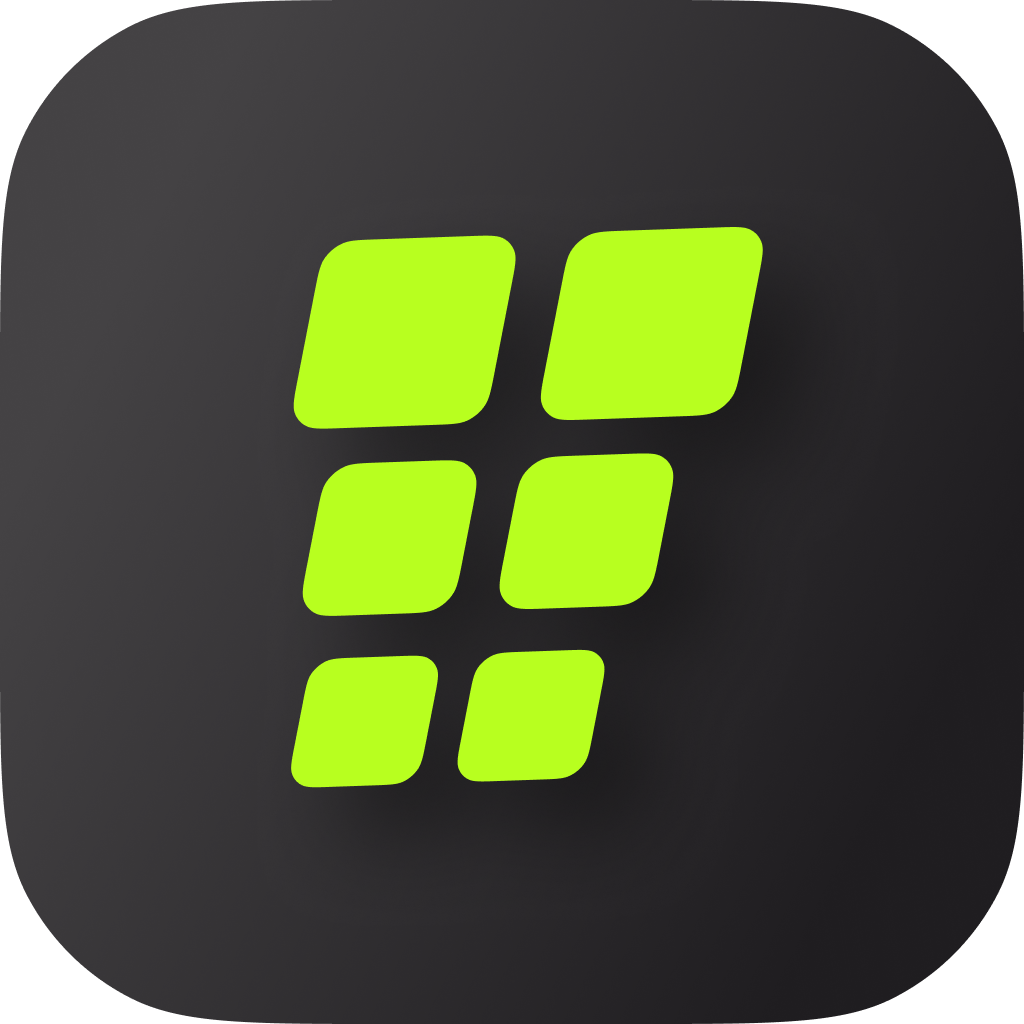
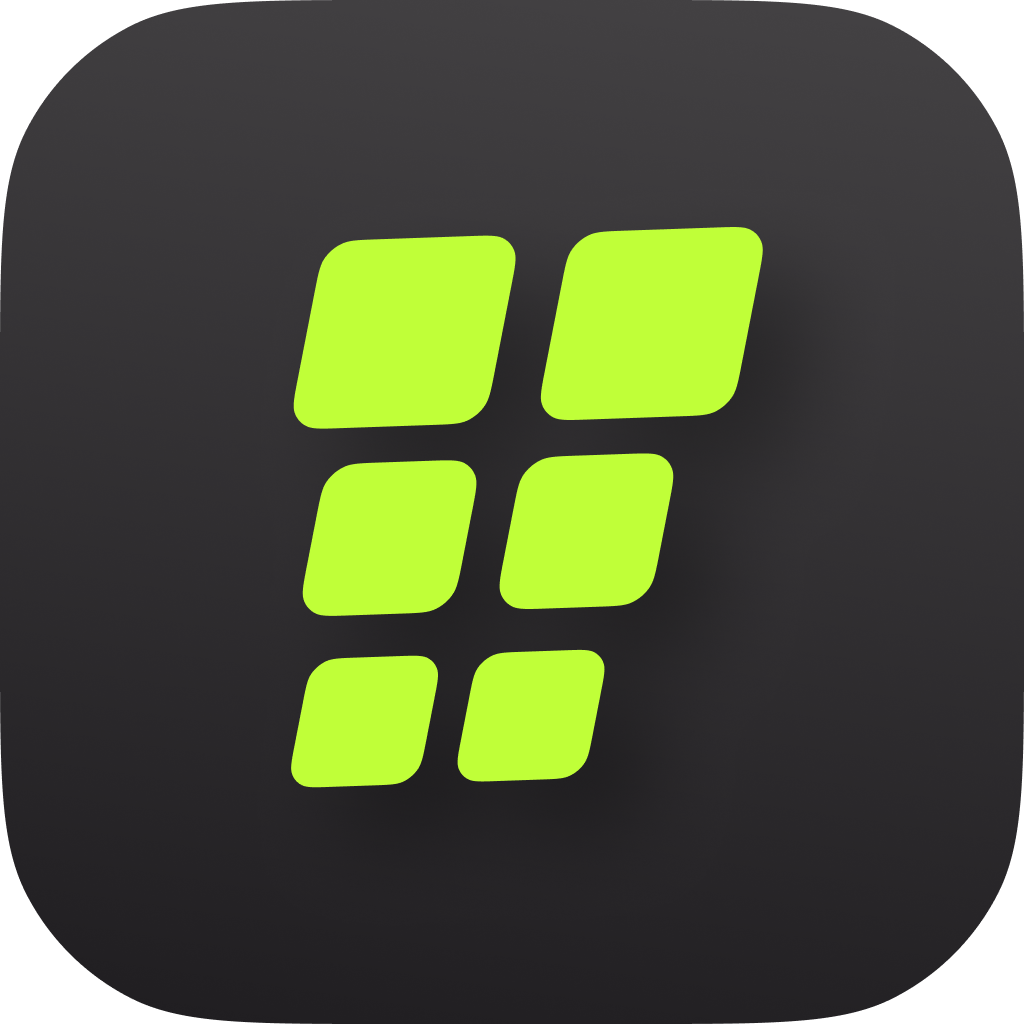
update color

diff --git a/components/brand/sign.tsx b/components/brand/sign.tsx
@@ -6,27 +6,27 @@ export default function Sign({ ...props }: SvgProps) {
     <Svg width="24" height="24" viewBox="0 0 24 24" fill="none" {...props}>
       <Path
         d="M9.89974 18.8811C9.7258 19.1295 9.66374 19.4487 9.53961 20.0873L9.17233 21.9768C9.04821 22.6154 8.98615 22.9347 9.06526 23.1742C9.13485 23.3848 9.27853 23.553 9.47571 23.6547C9.69987 23.7703 10.0249 23.759 10.6751 23.7363L12.5987 23.6691C13.2489 23.6464 13.5739 23.635 13.8464 23.5021C14.0861 23.3852 14.2976 23.2045 14.4506 22.9861C14.6245 22.7378 14.6866 22.4185 14.8107 21.7799L15.178 19.8904C15.3021 19.2518 15.3642 18.9326 15.2851 18.6931C15.2155 18.4824 15.0718 18.3142 14.8746 18.2125C14.6504 18.0969 14.3254 18.1082 13.6753 18.1309L11.7516 18.1981C11.1014 18.2208 10.7764 18.2322 10.5039 18.3651C10.2642 18.4821 10.0527 18.6627 9.89974 18.8811Z"
-        fill="#B8FF1F"
+        fill="#C0FF38"
       />
       <Path
         d="M2.76888 19.1301C2.59495 19.3785 2.53289 19.6978 2.40876 20.3363L2.04148 22.2258C1.91735 22.8644 1.85529 23.1837 1.93441 23.4232C2.004 23.6338 2.14768 23.802 2.34485 23.9037C2.56901 24.0193 2.89408 24.008 3.54421 23.9853L5.46789 23.9181C6.11802 23.8954 6.44309 23.8841 6.71556 23.7511C6.95524 23.6342 7.16673 23.4535 7.31973 23.2351C7.49366 22.9868 7.55572 22.6675 7.67985 22.0289L8.04713 20.1394C8.17125 19.5009 8.23332 19.1816 8.1542 18.9421C8.08461 18.7314 7.94093 18.5632 7.74376 18.4615C7.51959 18.3459 7.19453 18.3573 6.5444 18.38L4.62072 18.4471C3.97059 18.4698 3.64552 18.4812 3.37305 18.6141C3.13337 18.7311 2.92188 18.9117 2.76888 19.1301Z"
-        fill="#B8FF1F"
+        fill="#C0FF38"
       />
       <Path
         d="M11.4317 12.0306C11.5785 11.2754 11.6519 10.8978 11.8576 10.6042C12.0385 10.3459 12.2886 10.1323 12.572 9.99397C12.8943 9.83675 13.2787 9.82332 14.0475 9.79648L16.3223 9.71704C17.0912 9.69019 17.4756 9.67677 17.7407 9.81347C17.9738 9.93373 18.1437 10.1327 18.226 10.3818C18.3196 10.665 18.2462 11.0426 18.0994 11.7977L17.6651 14.0321C17.5183 14.7873 17.4449 15.1649 17.2392 15.4585C17.0583 15.7168 16.8082 15.9304 16.5248 16.0687C16.2025 16.2259 15.8181 16.2394 15.0493 16.2662L12.7745 16.3457C12.0056 16.3725 11.6212 16.3859 11.3561 16.2492C11.123 16.129 10.9531 15.93 10.8708 15.6809C10.7772 15.3977 10.8506 15.0201 10.9974 14.265L11.4317 12.0306Z"
-        fill="#B8FF1F"
+        fill="#C0FF38"
       />
       <Path
         d="M3.4249 10.8987C3.21922 11.1923 3.14582 11.5699 2.99904 12.325L2.56471 14.5595C2.41792 15.3146 2.34453 15.6922 2.43808 15.9754C2.52038 16.2245 2.69029 16.4235 2.92346 16.5437C3.18855 16.6804 3.57296 16.667 4.34177 16.6401L6.61664 16.5607C7.38545 16.5339 7.76986 16.5204 8.09208 16.3632C8.37551 16.2249 8.62561 16.0113 8.80654 15.753C9.01222 15.4594 9.08562 15.0818 9.23241 14.3266L9.66673 12.0922C9.81352 11.337 9.88691 10.9595 9.79336 10.6763C9.71106 10.4271 9.54115 10.2282 9.30798 10.108C9.04289 9.97125 8.65849 9.98467 7.88967 10.0115L5.61481 10.091C4.84599 10.1178 4.46158 10.1312 4.13936 10.2884C3.85593 10.4267 3.60583 10.6403 3.4249 10.8987Z"
-        fill="#B8FF1F"
+        fill="#C0FF38"
       />
       <Path
         d="M13.9258 0.966169C13.7201 1.25982 13.6467 1.6374 13.4999 2.39255L12.766 6.16796C12.6192 6.92312 12.5459 7.30069 12.6394 7.5839C12.7217 7.83301 12.8916 8.03195 13.1248 8.1522C13.3899 8.28891 13.7743 8.27549 14.5431 8.24864L18.5829 8.10757C19.3518 8.08072 19.7362 8.06729 20.0584 7.91008C20.3418 7.77179 20.5919 7.55818 20.7728 7.29987C20.9785 7.00622 21.0519 6.62864 21.1987 5.87349L21.9326 2.09808C22.0794 1.34293 22.1528 0.965349 22.0592 0.682144C21.9769 0.433029 21.807 0.23409 21.5738 0.113838C21.3087 -0.0228701 20.9243 -0.00944621 20.1555 0.0174016L16.1157 0.158476C15.3469 0.185324 14.9624 0.198747 14.6402 0.355964C14.3568 0.494256 14.1067 0.707863 13.9258 0.966169Z"
-        fill="#B8FF1F"
+        fill="#C0FF38"
       />
       <Path
         d="M2.91004 2.76237C3.05683 2.00722 3.13022 1.62964 3.33591 1.33599C3.51684 1.07768 3.76694 0.864073 4.05037 0.725781C4.37258 0.568564 4.75699 0.55514 5.52581 0.528293L9.56565 0.387218C10.3345 0.360371 10.7189 0.346947 10.984 0.483655C11.2171 0.603907 11.387 0.802846 11.4693 1.05196C11.5629 1.33517 11.4895 1.71274 11.3427 2.46789L10.6089 6.24331C10.4621 6.99846 10.3887 7.37603 10.183 7.66969C10.0021 7.928 9.75196 8.1416 9.46853 8.2799C9.14631 8.43711 8.7619 8.45054 7.99308 8.47738L3.95324 8.61846C3.18442 8.64531 2.80001 8.65873 2.53493 8.52202C2.30176 8.40177 2.13185 8.20283 2.04955 7.95372C1.956 7.67051 2.02939 7.29293 2.17618 6.53778L2.91004 2.76237Z"
-        fill="#B8FF1F"
+        fill="#C0FF38"
       />
     </Svg>
   );

diff --git a/app/support/index.tsx b/app/support/index.tsx
@@ -56,7 +56,7 @@ export default function SupportScreen() {
                   className="p-0 h-8"
                   onPress={() => Linking.openURL("https://x.com/fitmeproject")}
                 >
-                  <X fill="#B8FF1F" height={16} width={16} />
+                  <X fill="#C0FF38" height={16} width={16} />
                 </Button>
                 <Button
                   variant="link"
@@ -65,7 +65,7 @@ export default function SupportScreen() {
                     Linking.openURL("https://www.instagram.com/fitmeprojectcom")
                   }
                 >
-                  <Instagram fill="#B8FF1F" height={16} width={16} />
+                  <Instagram fill="#C0FF38" height={16} width={16} />
                 </Button>
                 <Button
                   variant="link"
@@ -74,7 +74,7 @@ export default function SupportScreen() {
                     Linking.openURL("https://www.threads.net/@fitmeprojectcom")
                   }
                 >
-                  <Threads fill="#B8FF1F" height={16} width={16} />
+                  <Threads fill="#C0FF38" height={16} width={16} />
                 </Button>
               </HStack>
             </VStack>

diff --git a/app/_layout.tsx b/app/_layout.tsx
@@ -86,7 +86,7 @@ export default function RootLayout() {
                 ...DarkTheme,
                 colors: {
                   ...DarkTheme.colors,
-                  primary: "#B8FF1F",
+                  primary: "#C0FF38",
                   background: "#1F1D20",
                 },
               }
@@ -94,7 +94,7 @@ export default function RootLayout() {
                 ...DefaultTheme,
                 colors: {
                   ...DefaultTheme.colors,
-                  primary: "#B8FF1F",
+                  primary: "#C0FF38",
                 },
               }
         }

diff --git a/global.css b/global.css
@@ -10,7 +10,7 @@
     --card-foreground: 240 10% 3.9%;
     --popover: 0 0% 100%;
     --popover-foreground: 240 10% 3.9%;
-    --primary: 79, 100%, 56%;
+    --primary: 79, 100%, 61%;
     --primary-foreground: 0 0% 98%;
     --secondary: 240 4.8% 95.9%;
     --secondary-foreground: 240 5.9% 10%;
@@ -32,7 +32,7 @@
     --card-foreground: 0 0% 98%;
     --popover: 240 10% 3.9%;
     --popover-foreground: 0 0% 98%;
-    --primary: 79, 100%, 56%;
+    --primary: 79, 100%, 61%;
     --primary-foreground: 240 5.9% 10%;
     --secondary: 240 3.7% 15.9%;
     --secondary-foreground: 0 0% 98%;

diff --git a/app/planner/index.tsx b/app/planner/index.tsx
@@ -179,7 +179,7 @@ export default function PlannerScreen() {
                       style={{ width: "100%", height: 40 }}
                       minimumValue={30}
                       maximumValue={120}
-                      minimumTrackTintColor="#B8FF1F"
+                      minimumTrackTintColor="#C0FF38"
                       step={10}
                       value={value}
                       onValueChange={onChange}
